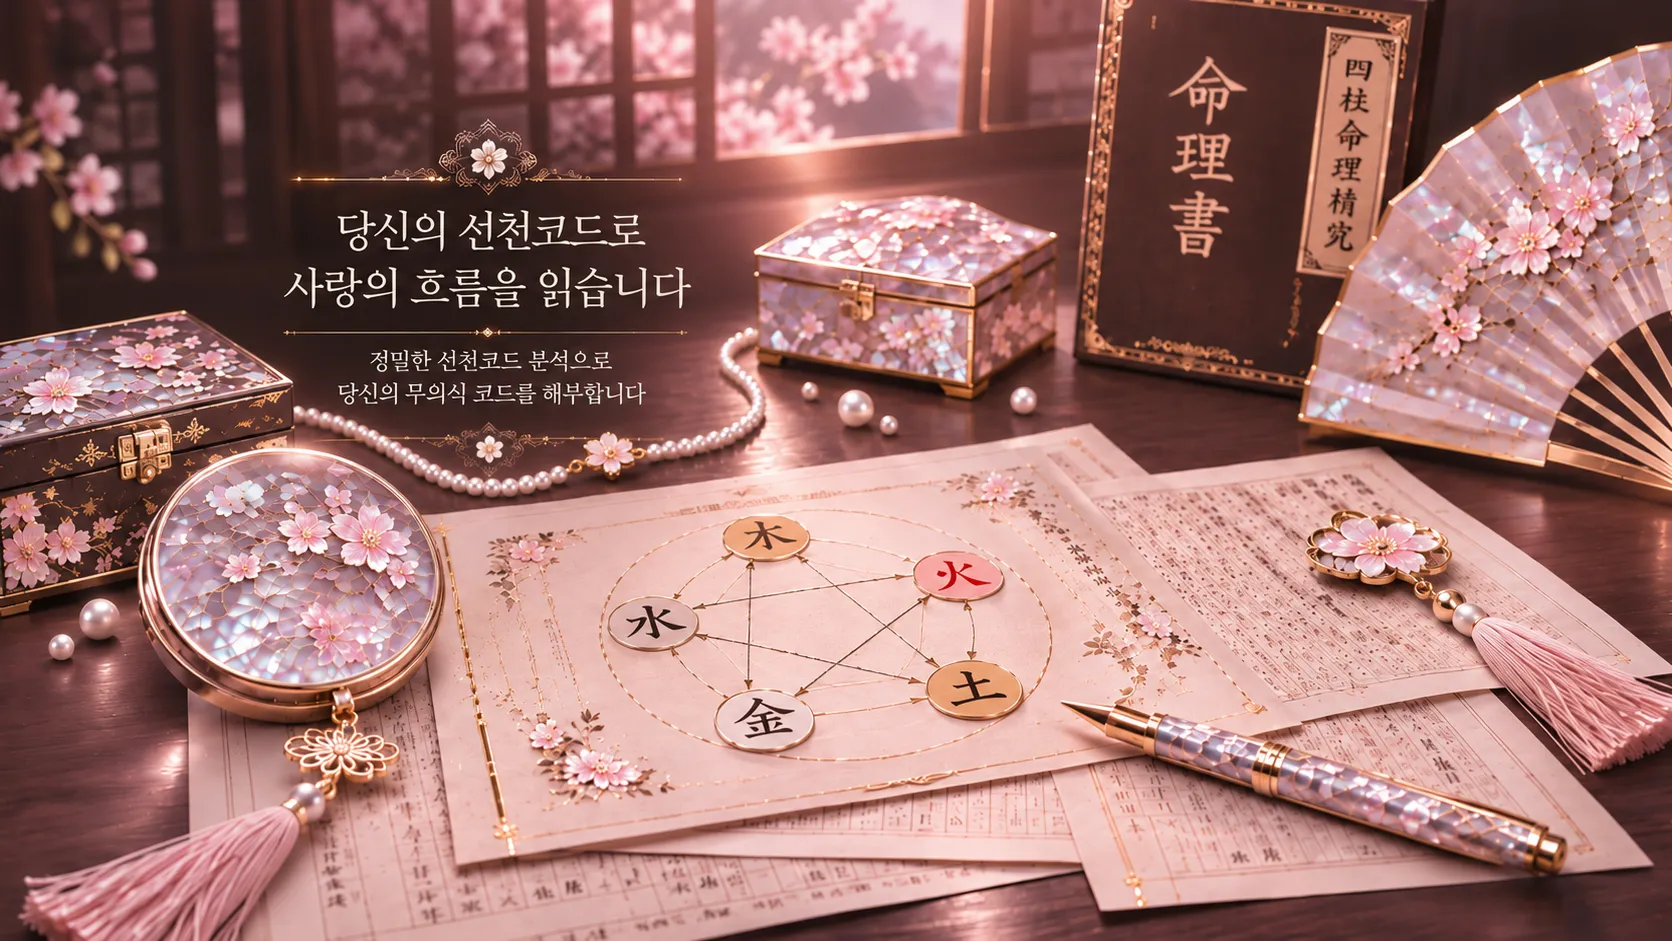
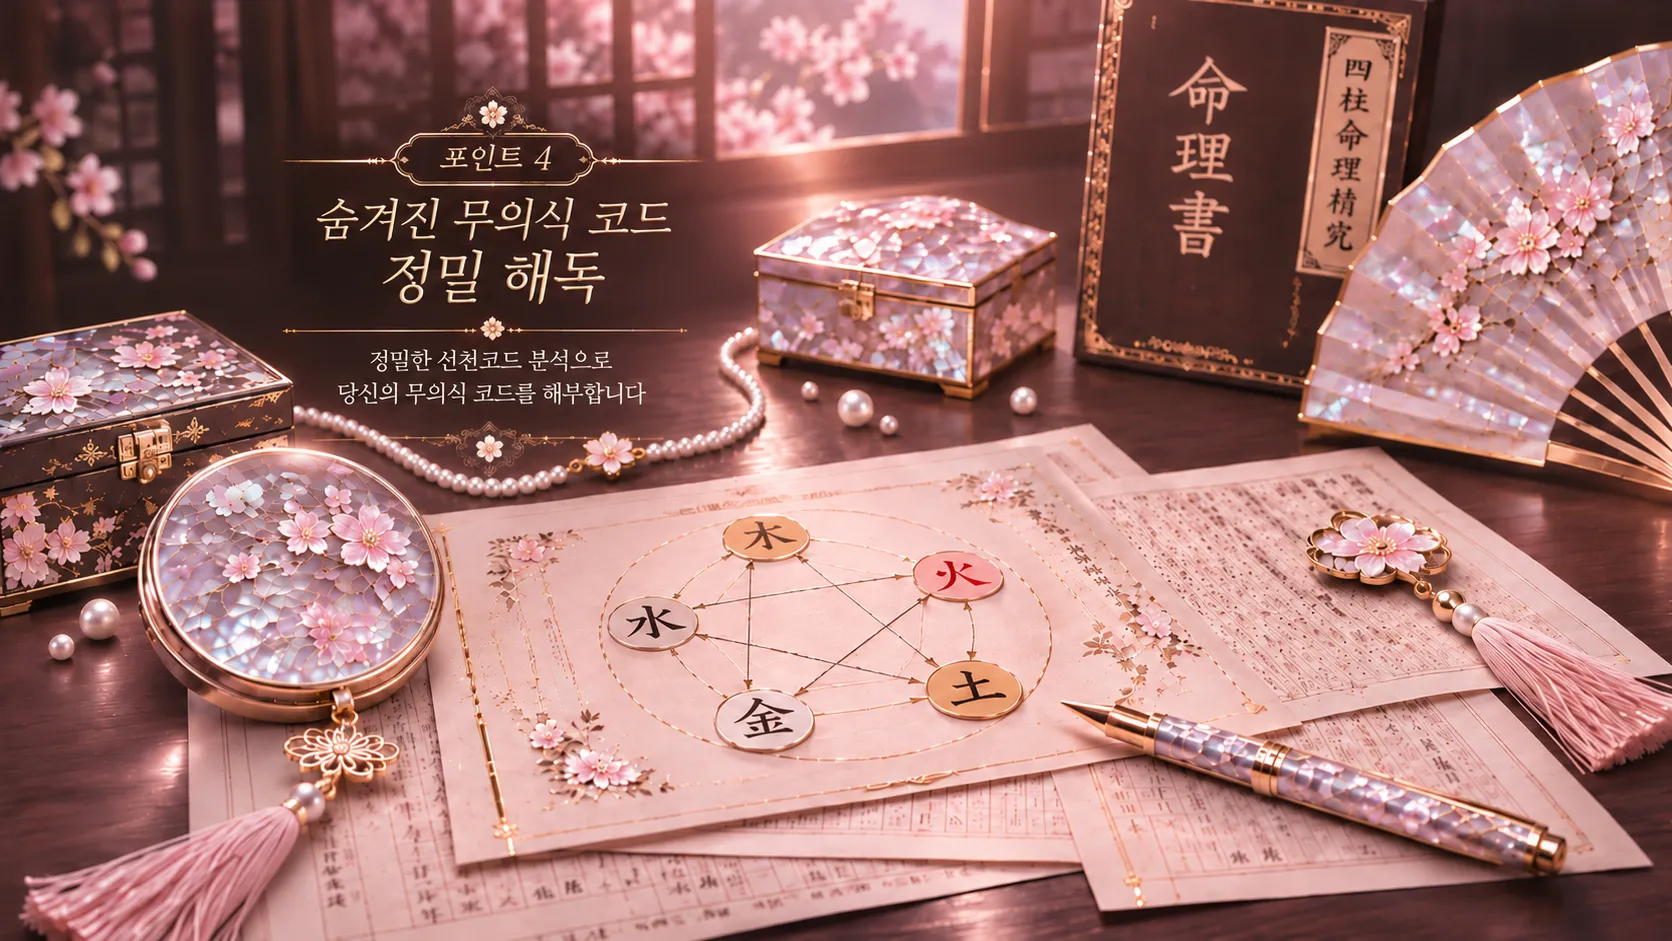
feat: POINT 03 설명문 줄바꿈 다듬기 및 대표 이미지(p4.webp) 최신화

diff --git a/app/reports/baekdohwa-report/page.tsx b/app/reports/baekdohwa-report/page.tsx
@@ -657,7 +657,8 @@ export default function BaekdohwaReportPage() {
                     <span className="gradient-text-love"> 선천코드에 숨겨진 무의식</span>을 마주합니다.&rdquo;
                   </h2>
                   <p className="text-[17px] md:text-[18px] text-[#EDE6DA] opacity-80 font-light leading-relaxed max-w-2xl mx-auto break-keep">
-                    겉으로 드러난 연애 성향 너머, 당신의 깊은 무의식과 내면의 그림자, 설명할 수 없이 반복되는 끌림의 뿌리까지 낱낱이 해독합니다.<br className="hidden sm:inline" />
+                    겉으로 드러난 연애 성향 너머, 당신의 깊은 무의식과 내면의 그림자,<br className="hidden sm:inline" />
+                    설명할 수 없이 반복되는 끌림의 뿌리까지 낱낱이 해독합니다.<br className="hidden sm:inline" />
                     의식적으로는 다짐하면서도 결국 같은 자리에서 흔들렸던 진짜 이유를 찾아내어,<br className="hidden sm:inline" />
                     <span className="text-[#D9A8A7] font-medium opacity-100">스스로도 몰랐던 깊은 내면을 투명하게 들여다보게 돕습니다.</span>
                   </p>
@@ -666,7 +667,7 @@ export default function BaekdohwaReportPage() {
                 {/* 이동한 POINT 03 대표 분석 이미지 */}
                 <div className="max-w-7xl mx-auto mb-16 md:mb-28">
                   <Image 
-                    src="/image/lovereport/p4.webp" 
+                    src="/image/lovereport/p4.webp?v=173411" 
                     alt="선천코드 연애 리포트의 6가지 핵심 분석 축 이미지" 
                     width={1672}
                     height={941}
